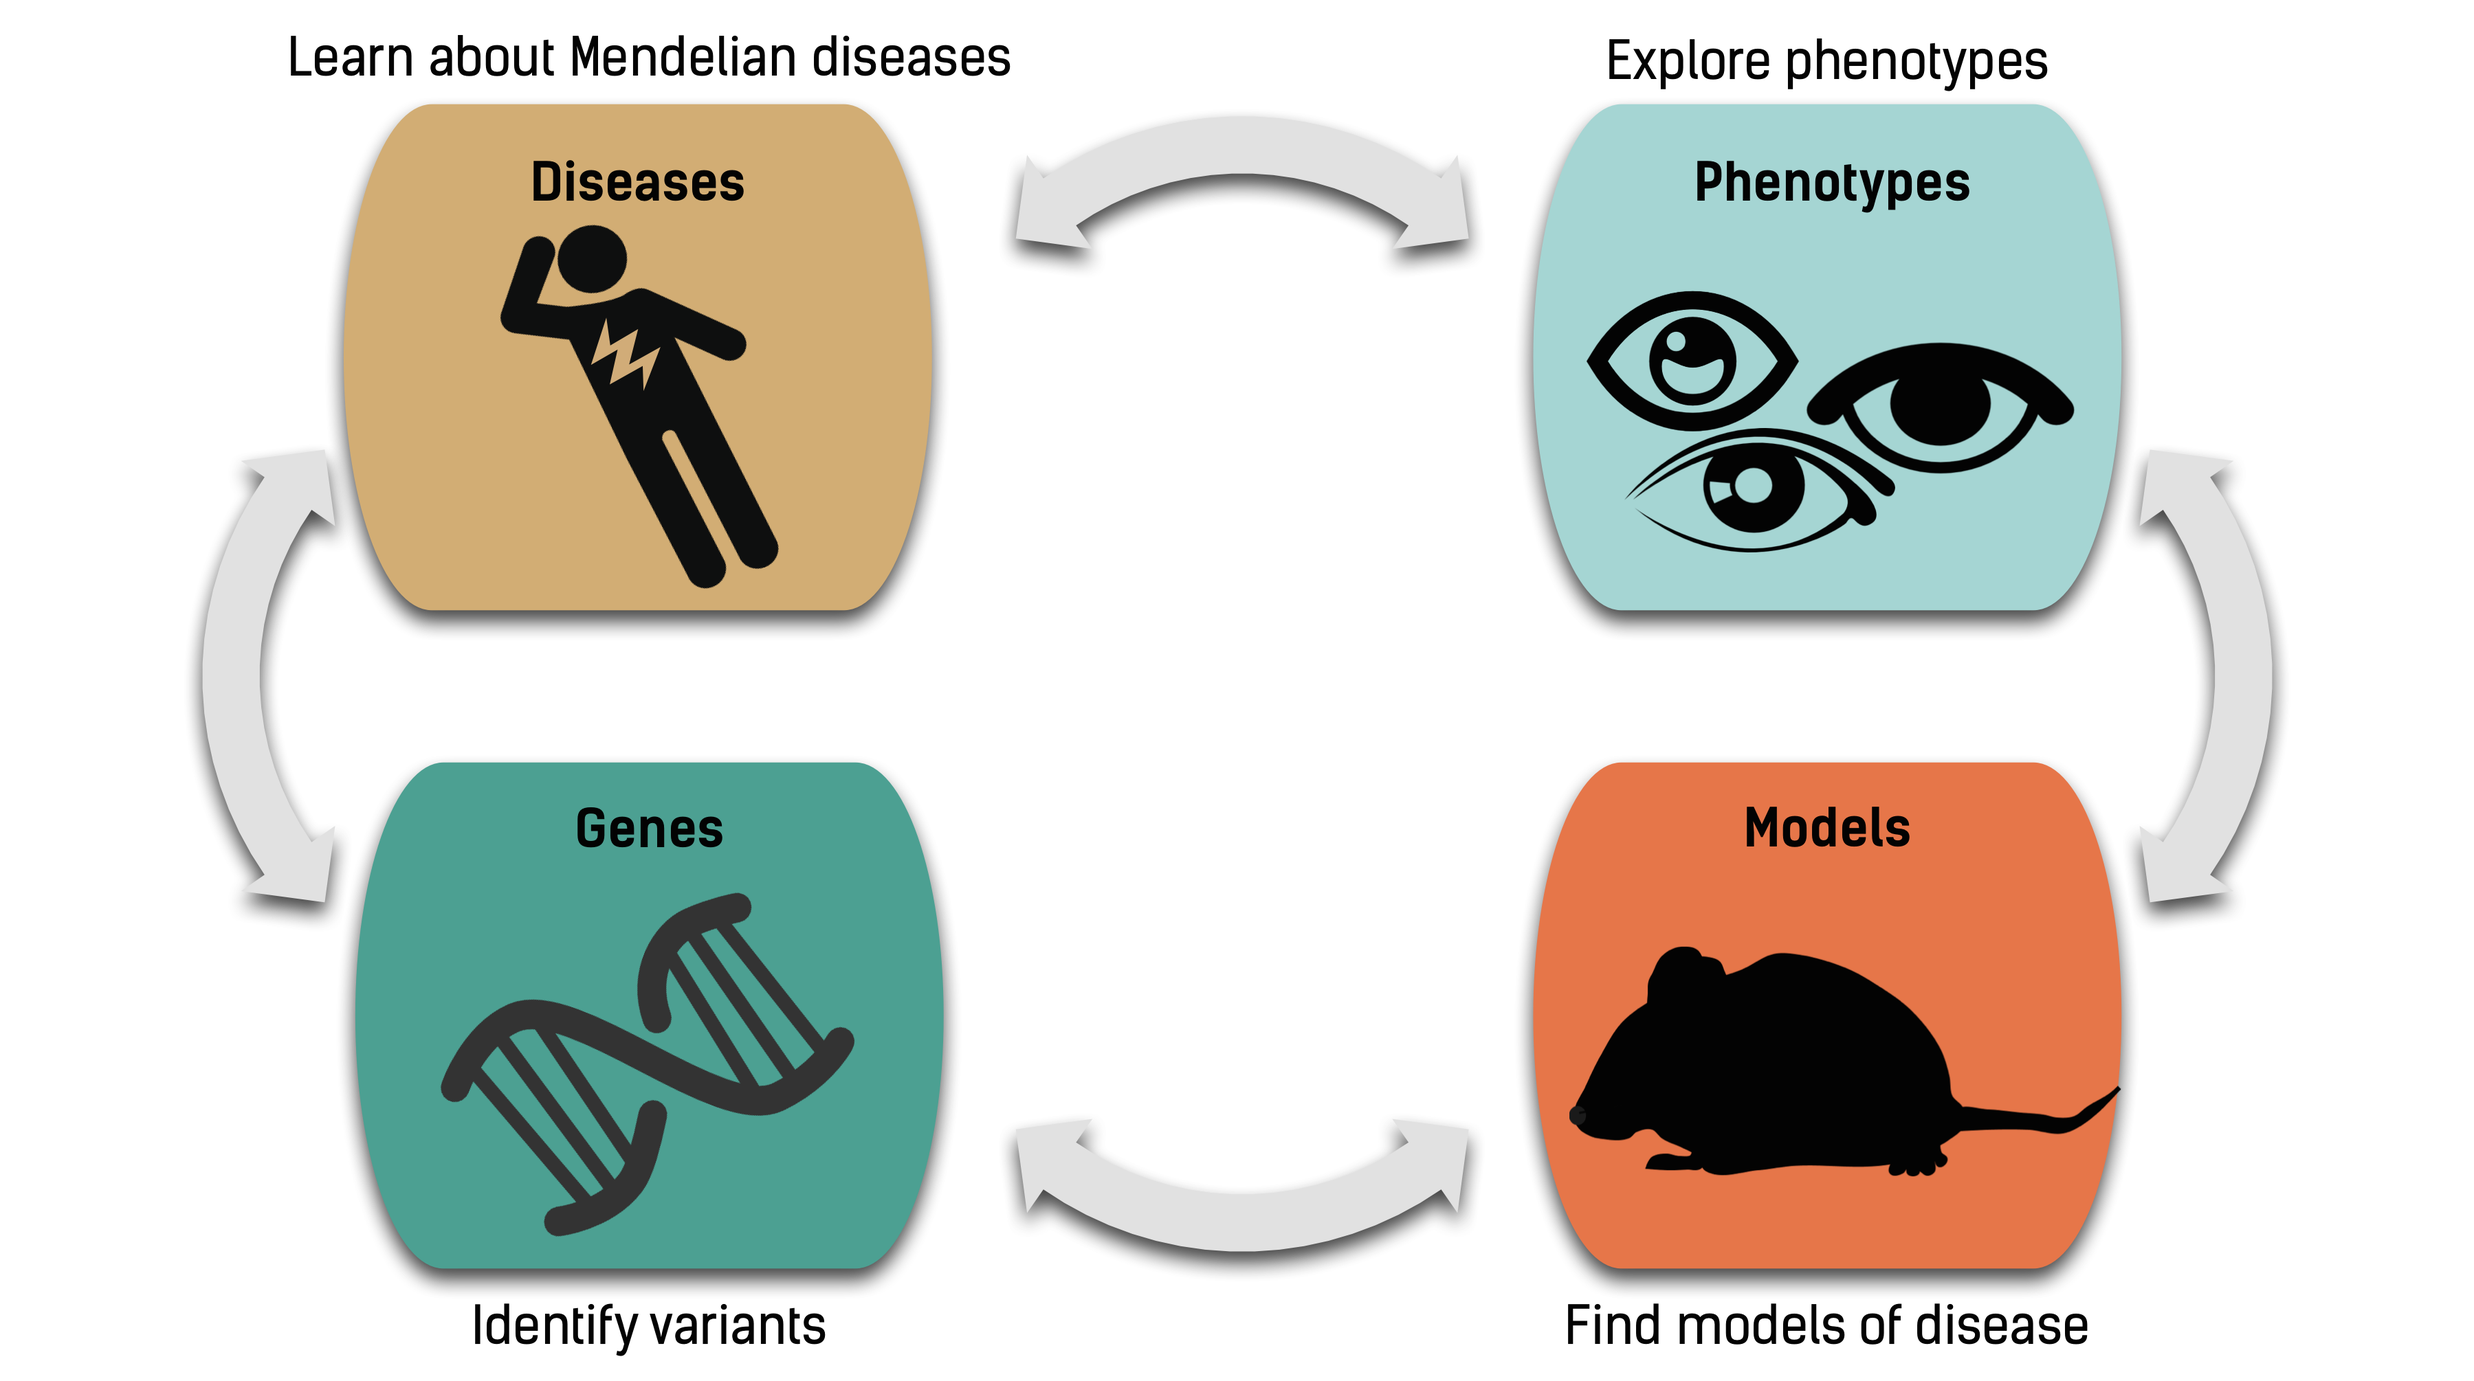
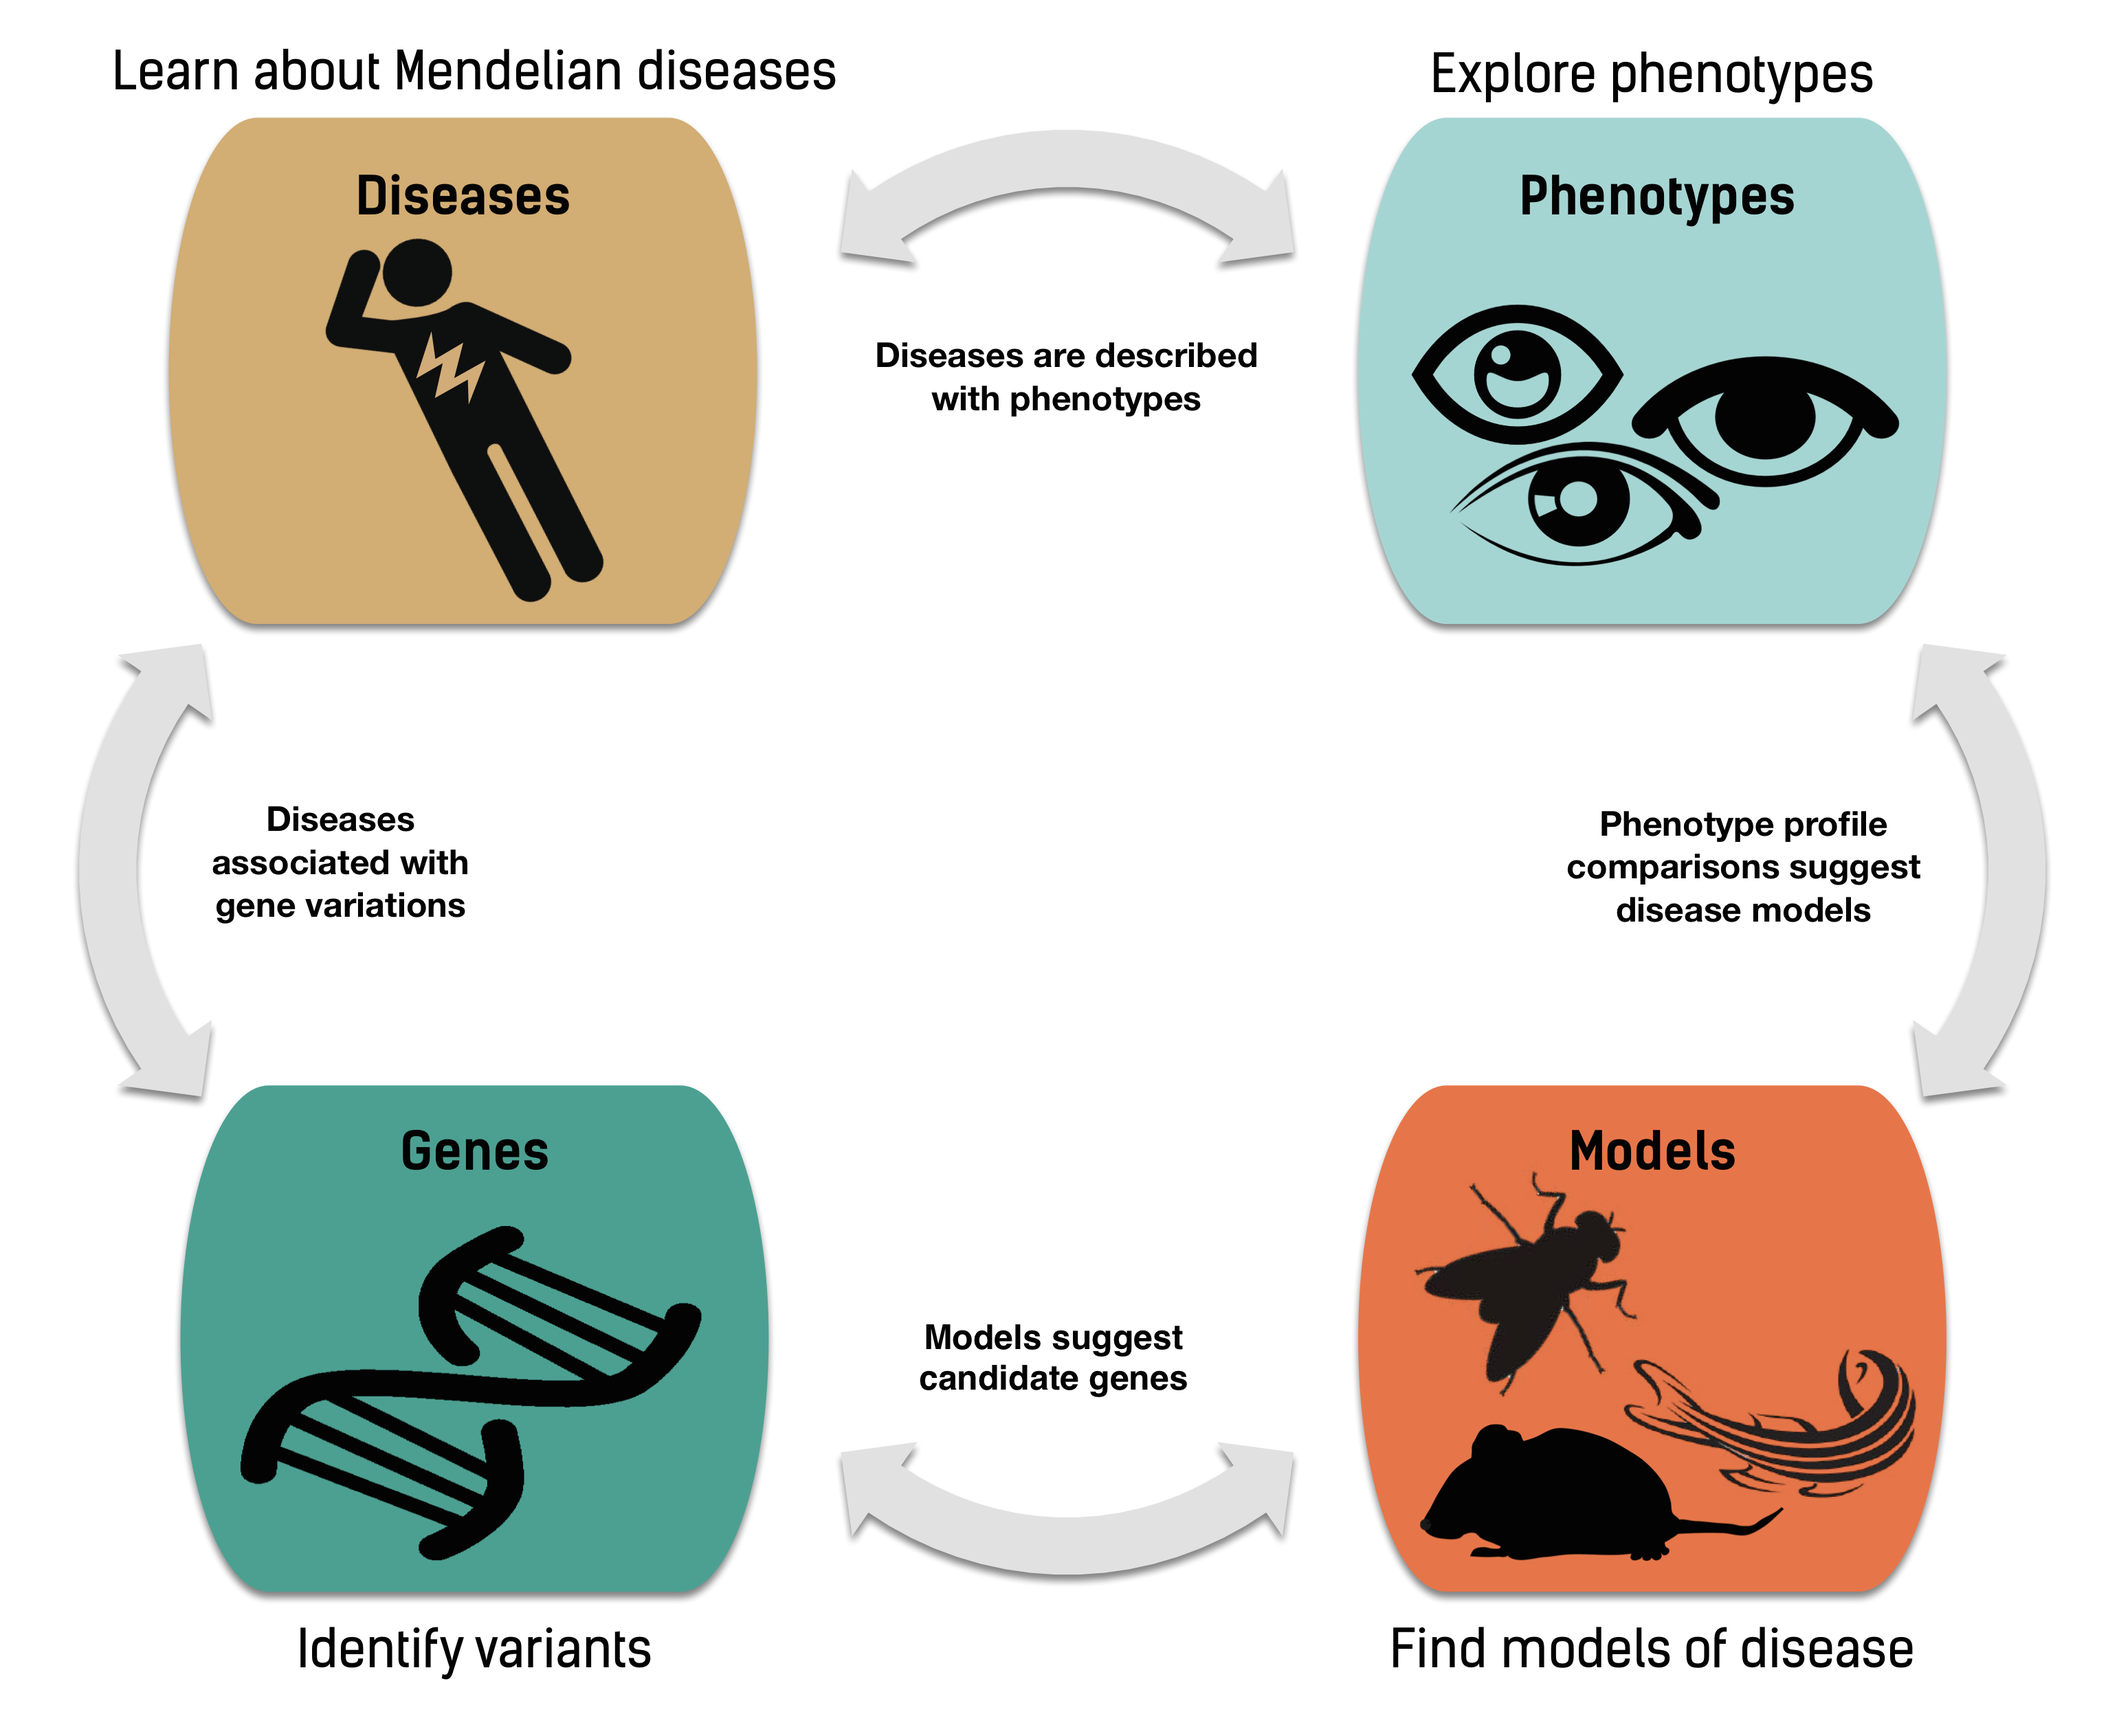
Fixes #207
I like the graphic better now with having the text next to the arrows rather than on hover.

diff --git a/css/main.css b/css/main.css
@@ -16,7 +16,7 @@
 /* Graphic */
 #graphic {
     position: relative;
-    max-width: 1000px;
+    max-width: 760px;
     margin: 0px auto;
 }
 #graphic > img {
@@ -24,70 +24,23 @@
 }
 .graphicbutton {
     position: absolute;
-    width: 24.5%;
-    height: 38%;
+    width: 28%;
+    height: 29.5%;
     z-index: 10;
 }
 #diseasebutton {
-    top: 7.5%;
-    left: 13.5%;
+    top: 7%;
+    left: 7.5%;
 }
 #phenotypebutton {
-    top: 7.5%;
-    right: 13.5%;
+    top: 7%;
+    right: 7.5%;
 }
 #genebutton {
-    left: 13.5%;
+    left: 8.5%;
     bottom: 7.5%;
 }
 #modelbutton {
-    right: 13.5%;
-    bottom: 7.5%;
-}
-.horizontalarrow {
-    position: absolute;
-    z-index: 10;
-    width: 20%;
-    height: 11%;
-}
-.verticalarrow {
-    position: absolute;
-    z-index: 10;
-    width: 6%;
-    height: 34%;
-}
-#toparrow {
-    top: 8%;
-    left: 40%;
-}
-#rightarrow {
-    top: 33%;
     right: 8%;
-}
-#bottomarrow {
-    left: 40%;
-    bottom: 8%;
-}
-#leftarrow {
-    top: 33%;
-    left: 8%;
-}
-.hovertext {
-    text-align: center;
-    background-color: rgba(0, 0, 0, 0.65);
-    color: white;
-    padding: 5px;
-    border-radius: 5px;
-    display: none;
-}
-.horizontalhovertext {
-    width: 100%;
-    min-height: 100%;
-    padding-top: 5%;
-}
-.verticalhovertext {
-    width: 90px;
-    min-height: 100%;
-    padding-top: 30%;
-    margin-left: -18%;
+    bottom: 7.5%;
 }
